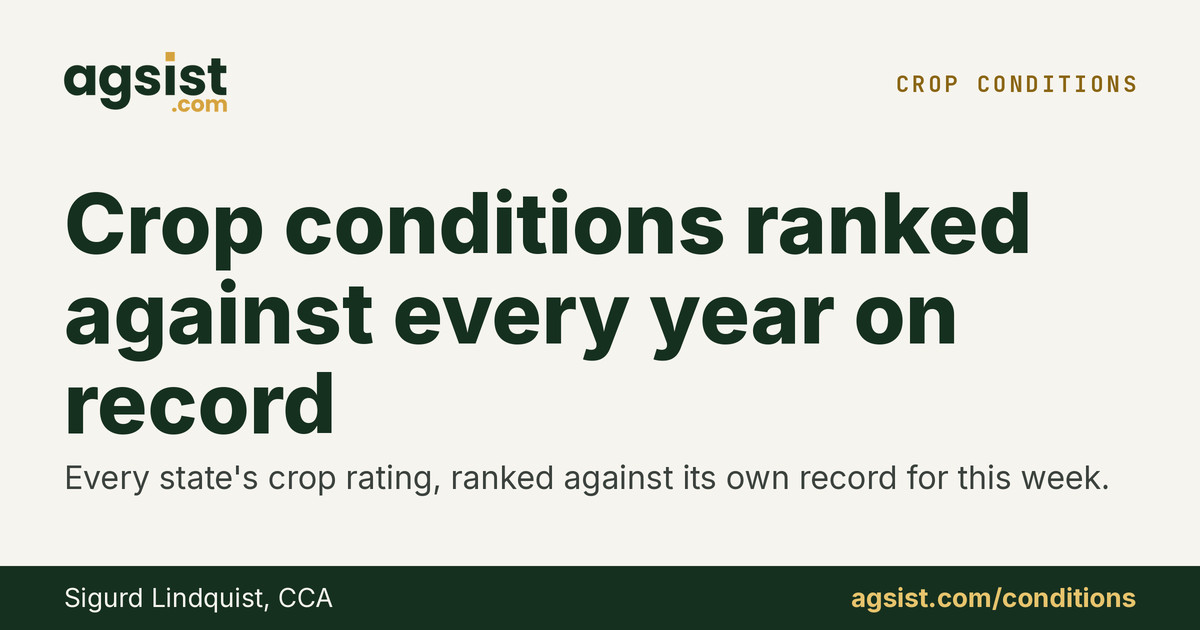
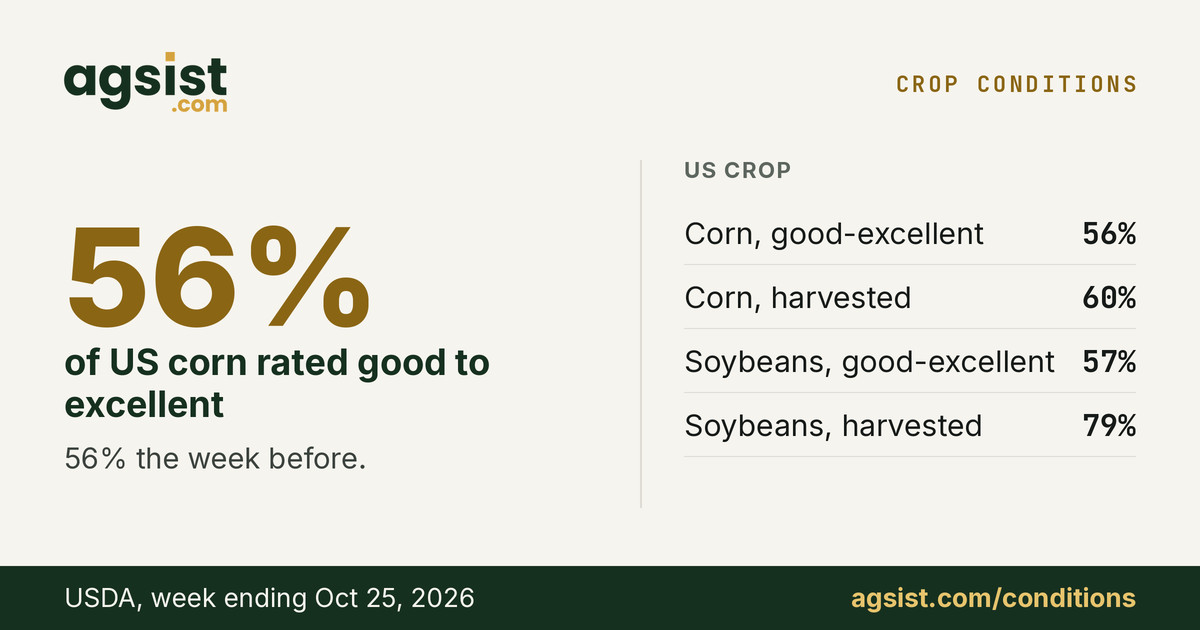
Crop progress: keep the last good condition read when Quick Stats returns none; restore the Oct 25 corn 56% blanked at 21:41

diff --git a/conditions.html b/conditions.html
@@ -29,9 +29,9 @@
 <meta name="twitter:title"       content="Corn 60% Harvested, Soybeans 79%: Crop Progress, Week Ending Oct 25">
 <meta name="twitter:description" content="US corn is 60% harvested against a 66% five-year average, soybeans 79%. Corn is 56% good to excellent. Every state ranked against its own record.">
   <meta property="og:url" content="https://agsist.com/conditions">
-  <meta property="og:image" content="https://agsist.com/img/og/conditions.jpg?v=e194d7ee">
-  <meta property="og:image:alt" content="Crop conditions ranked against every year on record. Every state&#x27;s crop rating, ranked against its own record for this week.">
-  <meta name="twitter:image" content="https://agsist.com/img/og/conditions.jpg?v=e194d7ee">
+  <meta property="og:image" content="https://agsist.com/img/og/conditions.jpg?v=0609b7bb">
+  <meta property="og:image:alt" content="US corn is 56% good to excellent, week ending Oct 25, 2026.">
+  <meta name="twitter:image" content="https://agsist.com/img/og/conditions.jpg?v=0609b7bb">
   <meta property="og:image:width" content="1200">
   <meta property="og:image:height" content="630">
   <meta name="twitter:card" content="summary_large_image">

diff --git a/scripts/fetch_crop_progress.py b/scripts/fetch_crop_progress.py
@@ -370,6 +370,49 @@ def is_in_season() -> bool:
     return 4 <= m <= 11
 
 
+COND_KEYS = ("good_excellent", "report_date", "good_excellent_prev_week", "good_excellent_prev_year")
+
+
+def hold_last_condition(result: dict, path: str, today=None, max_age_days: int = 14) -> list[str]:
+    """Oct 27, 2026: a later run that day got no condition rows back from Quick
+    Stats and wrote good_excellent and report_date as null over the 56% read
+    that morning, blanking the conditions card. When this run has no condition
+    reading for a crop but the file on disk has one for the same season, no
+    more than max_age_days old, keep it and say so. Never invents a value."""
+    from datetime import date as _d
+    try:
+        with open(path) as f:
+            old = json.load(f)
+    except Exception:
+        return []
+    today = today or _d.today()
+    held = []
+    for key in ("corn", "soybeans", "winter_wheat", "spring_wheat"):
+        new_c, old_c = result.get(key), (old or {}).get(key)
+        if not isinstance(new_c, dict) or not isinstance(old_c, dict):
+            continue
+        if new_c.get("good_excellent") is not None or old_c.get("good_excellent") is None:
+            continue
+        rd = old_c.get("report_date")
+        try:
+            age = (today - _d.fromisoformat(str(rd)[:10])).days
+        except Exception:
+            continue
+        if not (0 <= age <= max_age_days) or str(rd)[:4] != str(today.year):
+            continue
+        for k in COND_KEYS:
+            if new_c.get(k) is None and old_c.get(k) is not None:
+                new_c[k] = old_c[k]
+        new_c["condition_held_from"] = rd
+        held.append(key)
+    if held and not result.get("report_date"):
+        result["report_date"] = (old or {}).get("report_date") or result[held[0]].get("report_date")
+    if held:
+        print(f"  condition held from the last good read for {', '.join(held)} (no rows this run)", flush=True)
+    return held
+
+
+
 def main():
     os.makedirs("data", exist_ok=True)
 
@@ -528,6 +571,8 @@ def main():
         print("\nNo data returned — writing off-season placeholder.")
         result["in_season"] = False
 
+    hold_last_condition(result, OUT_FILE)
+
     with open(OUT_FILE, "w") as f:
         json.dump(result, f, indent=2)
     print(f"\nWritten {OUT_FILE}")
@@ -620,6 +665,28 @@ def selftest():
     check(st.get("KS", {}).get("winter_wheat_planted", {}).get("pct") == 41, "Kansas wheat planted 41 kept")
     check("AR" not in st, "a state week eight weeks old is not shown as this week", st.get("AR"))
     check(st["KS"]["winter_wheat_planted"]["avg5"] is None, "no history -> 5-year avg withheld (None)")
+
+    print("HOLD THE LAST GOOD CONDITION READ (Oct 27, 2026: a later run wrote nulls)")
+    import tempfile
+    from datetime import date as _d
+    old = {"report_date": "2026-10-25", "corn": {"good_excellent": 56, "report_date": "2026-10-25",
+           "good_excellent_prev_week": 56, "harvest_pct": 55}}
+    with tempfile.NamedTemporaryFile("w", suffix=".json", delete=False) as tf:
+        json.dump(old, tf)
+    new = {"report_date": None, "corn": {"good_excellent": None, "report_date": None,
+           "good_excellent_prev_week": None, "harvest_pct": 60}, "soybeans": None}
+    held = hold_last_condition(new, tf.name, today=_d(2026, 10, 27))
+    check(held == ["corn"] and new["corn"]["good_excellent"] == 56, "no rows this run: the Oct 25 56% is kept", new)
+    check(new["corn"]["harvest_pct"] == 60, "this run's harvest figure is not replaced")
+    check(new["corn"]["condition_held_from"] == "2026-10-25" and new["report_date"] == "2026-10-25",
+          "held reading says where it came from; report date filled")
+    new2 = {"corn": {"good_excellent": 58, "report_date": "2026-11-01"}}
+    check(hold_last_condition(new2, tf.name, today=_d(2026, 11, 2)) == [] and new2["corn"]["good_excellent"] == 58,
+          "a fresh reading is never replaced")
+    new3 = {"corn": {"good_excellent": None, "report_date": None}}
+    check(hold_last_condition(new3, tf.name, today=_d(2026, 11, 20)) == [] and new3["corn"]["good_excellent"] is None,
+          "a reading older than 14 days is not carried forward")
+    os.unlink(tf.name)
 
     print()
     if fails:
